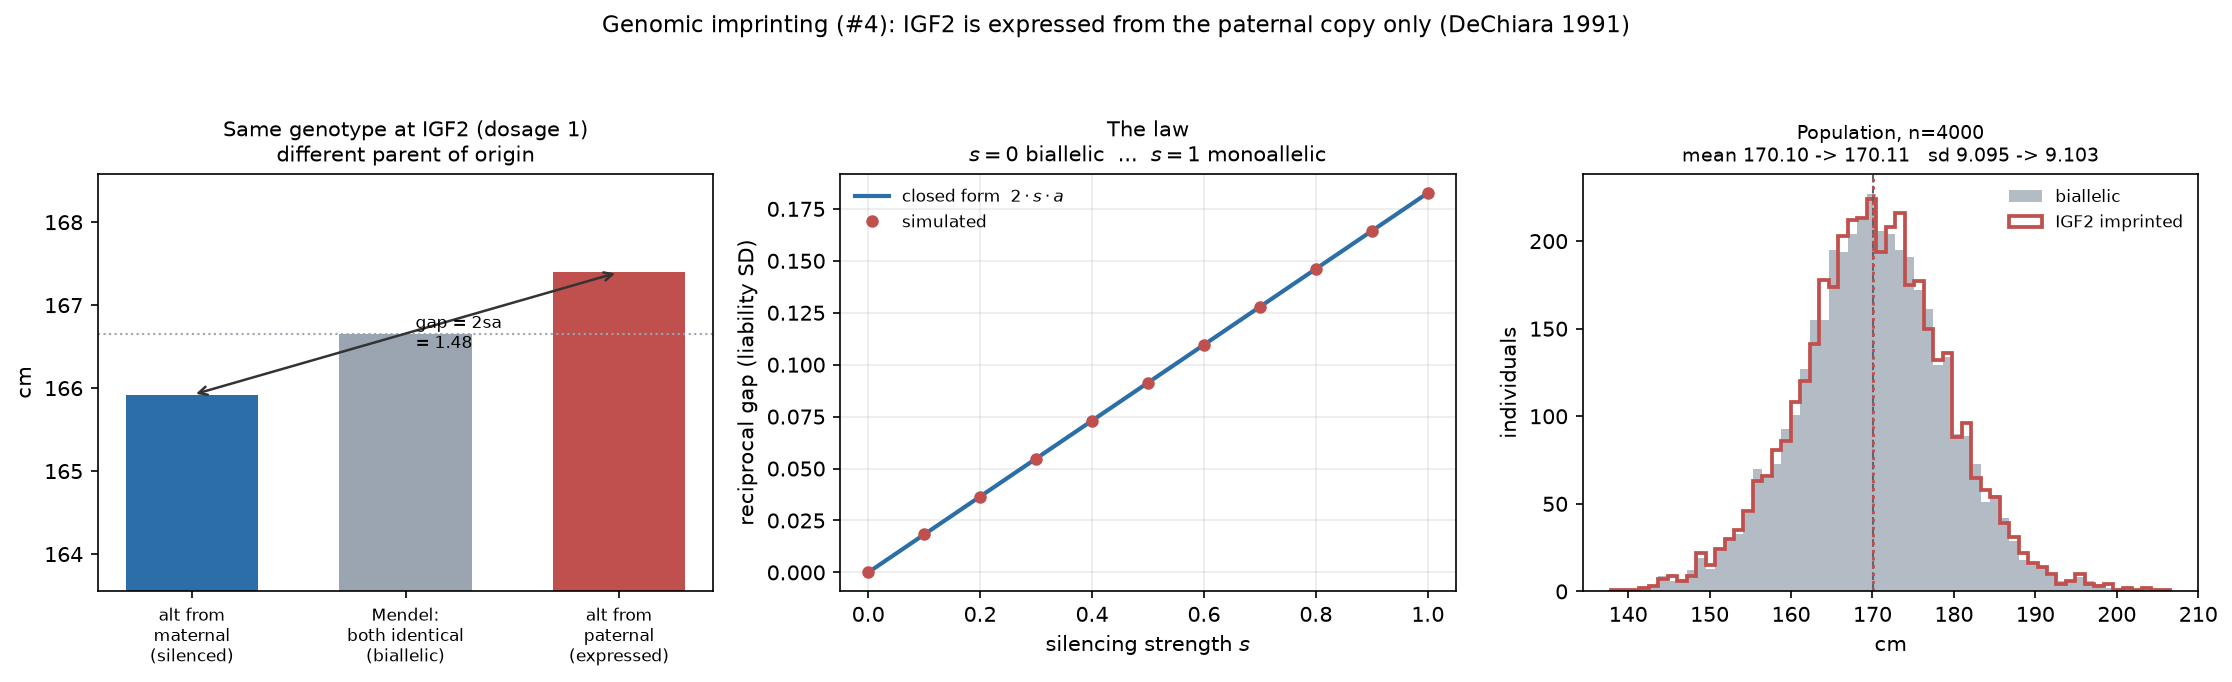
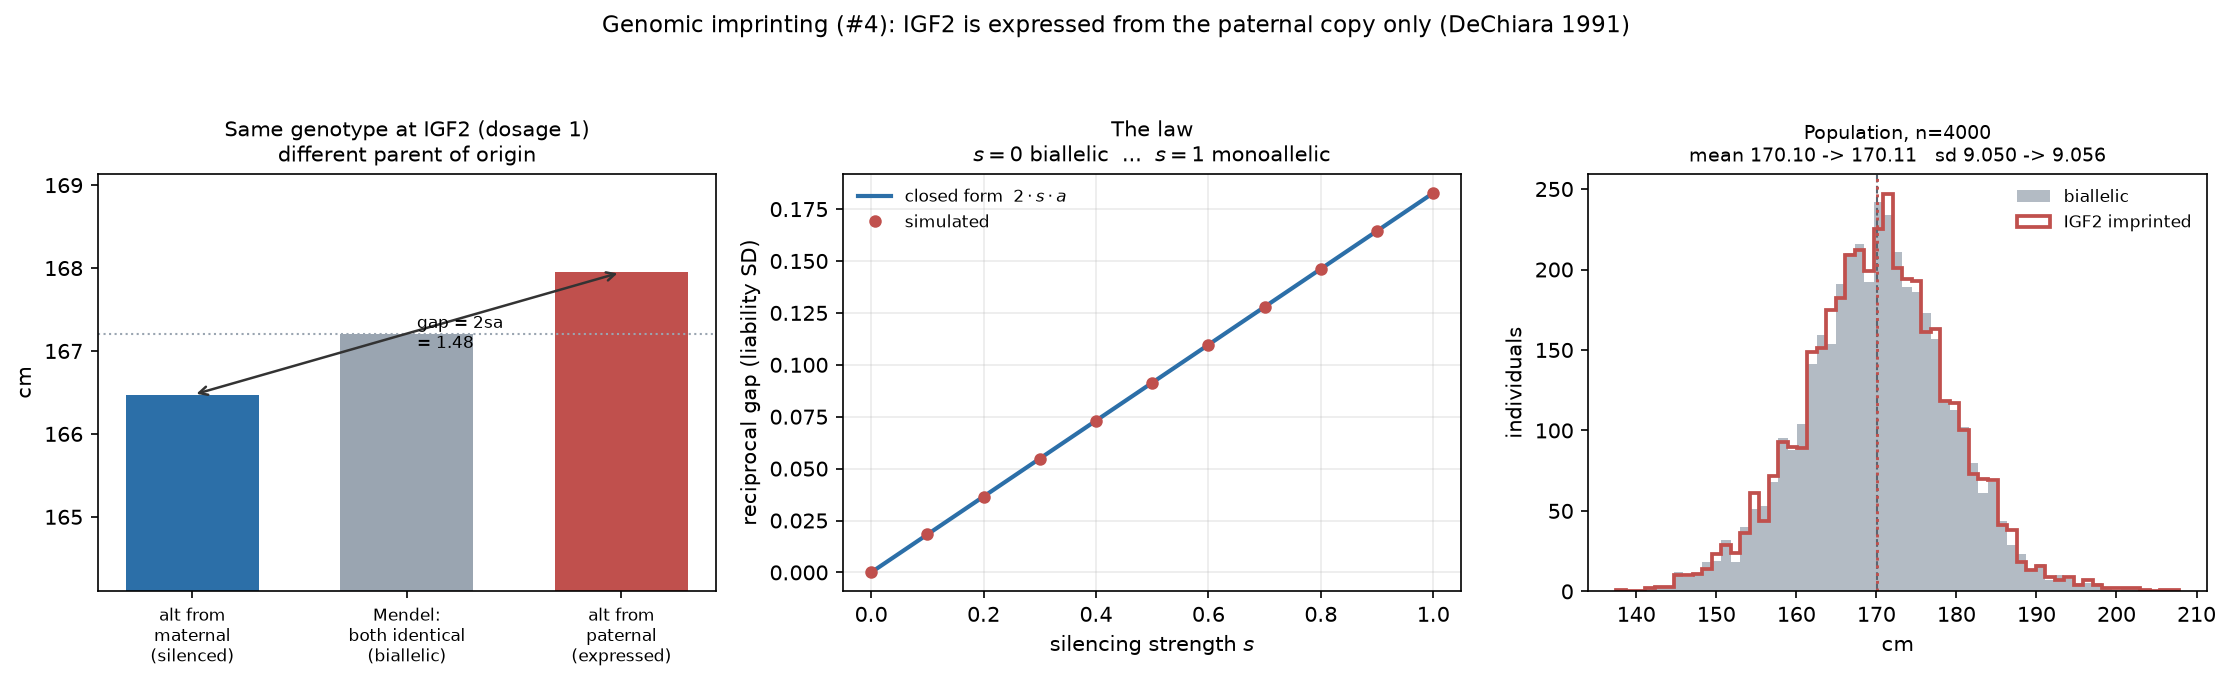
The directional-dominance figure, the docs, and the regenerated outputs
`viz.plot_directional_dominance` -> outputs/directional_dominance.png. Left
panel is the result: the same genomes scored through both architectures, the
directional arm tracking the closed form at -1.19 cm per 10% F and the
random-sign arm flat. Middle panel is the mechanism -- the per-locus 2pq*d
distribution, symmetric about zero before and displaced after, plain sum
+0.144 -> +1.333 while V_D moves the other way, 0.0500 -> 0.0143. Right panel
is the two positives and the four nulls against Joshi.

`StatureDepressionResult` gains `counterfactual_value` so the A/B can be
plotted rather than only summarised.

All 16 figures regenerated by a full non-fast `health_engine_prototype.py`
run and committed together. Eight shifted, which is expected and is the
reason for the rule: `full_report` consumes the shared generator, so adding
section [9c] moves every downstream figure. `inbreeding_depression.png` is
unchanged because it seeds itself. Harness: 19 PASS / 0 FAIL.

REPORT session-15 section; the handoff's top scientific-debt item struck
through with what remains of it. README: the limitation rewritten from "costs
viability but not stature" to what is actually true now, including that every
trait outside the six named is uncalibrated in this respect rather than
calibrated to zero, and a new row in the validation-law table.

546 tests pass.

diff --git a/health_engine/viz.py b/health_engine/viz.py
@@ -994,6 +994,135 @@ def plot_inbreeding_depression(out_path: str, n: int = 3000,
     return _save(fig, out_path)
 
 
+def plot_directional_dominance(out_path: str, trait: str = "height_cm",
+                               n: int = 1500, seed: int = 20260902) -> str:
+    """
+    Directional dominance: inbreeding depression on a PHENOTYPE.
+
+    The companion to `plot_inbreeding_depression`, which shows the fitness
+    half. Two mechanisms, two literatures, one engine -- and they are kept
+    apart, because an inbred individual can be short and still viable.
+
+    Left: the A/B. Both series are the SAME genomes, produced by real meiosis
+    over the same five pedigree structures, scored through two architectures
+    that differ only in the sign of the dominance deviations. The directional
+    arm tracks the closed form; the arm with `loci.py`'s random signs stays
+    flat. This is the whole result in one panel.
+
+    Middle: why. Each locus contributes 2*p*q*d to the depression, and the
+    histogram is that quantity across the trait's loci. Random signs put it
+    symmetrically about zero, so the PLAIN SUM cancels -- while the sum of
+    SQUARES, which is V_D, is unaffected by sign and stays exactly where it
+    was asked to be. Signing the deviations moves the distribution off zero
+    without inventing any new variance. That distinction is the entire reason
+    this engine carried dominance variance for eleven sessions with no
+    inbreeding depression on any trait.
+
+    Right: which traits, against the paper. Joshi et al. 2015 tested 16 traits
+    and reported depression in four. Reproducing the two this engine can
+    represent is the positive result; leaving BMI, adiposity, blood pressure
+    and lipids flat reproduces the negatives, which is the part that
+    distinguishes a model from a curve fit. Values are in phenotypic SD so
+    that centimetres, litres and mmHg are comparable.
+    """
+    from .inbreeding import predicted_depression
+    from .traits import ARCHITECTURE, non_directional_variant
+    from . import validation as V
+
+    r = V.stature_inbreeding_depression(trait, n_per_level=n,
+                                        rng=np.random.default_rng(seed))
+    arch = ARCHITECTURE[trait]
+    alt = non_directional_variant(trait)
+    unit = arch.spec.unit
+
+    fig, (axL, axM, axR) = plt.subplots(1, 3, figsize=(15, 4.6))
+
+    # ---- left: the A/B regression -----------------------------------
+    F = np.array(r.levels)
+    grid = np.linspace(0, 0.27, 60)
+    m0 = r.mean_value[0]
+    axL.plot(grid, m0 + r.expected_slope * grid, "--", color="#2c6fa8", lw=2,
+             label=f"closed form  $-F\\sum 2pqd$  ({r.expected_slope:+.2f} {unit}/F)")
+    axL.errorbar(F, r.mean_value, yerr=r.sem_value, fmt="o", color="#c0504d",
+                 ms=7, capsize=3,
+                 label=f"directional (n={n} per level)")
+    axL.errorbar(F, r.counterfactual_value, yerr=r.sem_value, fmt="s",
+                 color="#9aa5b1", ms=6, capsize=3,
+                 label="same genomes, random dominance signs")
+    for x, y, lab in zip(F, r.mean_value, ["outbred", "half 1st cous.",
+                                           "1st cousins", "double 1st cous.",
+                                           "full sibs"]):
+        axL.annotate(lab, xy=(x, y), xytext=(11, -16),
+                     textcoords="offset points", fontsize=7.5, color="#5a6570",
+                     ha="left")
+    axL.set_xlabel("pedigree inbreeding coefficient  F")
+    axL.set_ylabel(f"mean {trait}  ({unit})")
+    axL.set_title(f"{r.observed_per_10F:+.2f} {unit} per 10% F\n"
+                  f"(published {r.published_per_10F:+.2f}; {r.source})",
+                  fontsize=10)
+    axL.legend(fontsize=8, frameon=False, loc="lower left")
+    axL.grid(alpha=0.25)
+
+    # ---- middle: the mechanism, per locus ----------------------------
+    twopq = 2.0 * arch.p * (1.0 - arch.p)
+    before = twopq * alt.d
+    after = twopq * arch.d
+    lim = float(max(np.abs(before).max(), np.abs(after).max())) * 1.05
+    bins = np.linspace(-lim, lim, 45)
+    axM.hist(before, bins=bins, alpha=0.65, color="#9aa5b1",
+             label=f"random signs\n$\\sum$ = {before.sum():+.3f},  "
+                   f"$V_D$ = {alt.v_d:.4f}")
+    axM.hist(after, bins=bins, alpha=0.65, color="#c0504d",
+             label=f"signed toward the taller allele\n"
+                   f"$\\sum$ = {after.sum():+.3f},  $V_D$ = {arch.v_d:.4f}")
+    axM.axvline(0.0, color="#5a6570", lw=1, ls=":")
+    axM.set_xlabel(r"per-locus contribution  $2p_jq_jd_j$")
+    axM.set_ylabel("loci")
+    axM.set_title("The plain sum cancels; the sum of squares does not\n"
+                  "$V_D$ is an OUTPUT here, and lands at "
+                  f"{arch.v_d / 1.0:.1%} of $V_P$", fontsize=10)
+    axM.legend(fontsize=7.5, frameon=False)
+
+    # ---- right: positives and nulls, against the paper ---------------
+    rows = [("height_cm", 1.2), ("lung_capacity", 0.137), ("bmi", 0.0),
+            ("adiposity", 0.0), ("bp_set_point", 0.0), ("lipid_profile", 0.0)]
+    y = np.arange(len(rows))
+    model, published, colours = [], [], []
+    for name, pub in rows:
+        sd = ARCHITECTURE[name].spec.sd
+        model.append(predicted_depression(name, 0.10) / sd)
+        published.append(-pub / sd)
+        colours.append("#c0504d" if pub else "#9aa5b1")
+    axR.barh(y, model, color=colours, alpha=0.8, height=0.55)
+    axR.plot(published, y, "d", color="#2c6fa8", ms=8,
+             label="Joshi et al. 2015")
+    # Both bar colours are this engine; the distinction is whether the trait
+    # was calibrated to a depression at all, which is the point of the panel.
+    from matplotlib.patches import Patch
+    axR.legend(handles=[
+        Patch(facecolor="#c0504d", alpha=0.8, label="engine, calibrated"),
+        Patch(facecolor="#9aa5b1", alpha=0.8, label="engine, uncalibrated"),
+        plt.Line2D([], [], marker="d", ls="", color="#2c6fa8", ms=8,
+                   label="Joshi et al. 2015"),
+    ], fontsize=8, frameon=False, loc="lower left")
+    axR.axvline(0.0, color="#5a6570", lw=1)
+    axR.set_yticks(y)
+    axR.set_yticklabels([n for n, _ in rows], fontsize=8)
+    axR.invert_yaxis()
+    axR.set_xlabel("depression per 10% F  (phenotypic SD)")
+    axR.xaxis.set_major_locator(plt.MaxNLocator(nbins=5))
+    axR.set_title("Two positives reproduced -- and so are\nthe four nulls, "
+                  "which is the harder half", fontsize=10)
+    axR.grid(alpha=0.25, axis="x")
+
+    fig.suptitle("Directional dominance -- "
+                 r"$M_F - M_0 = -F\sum_j 2p_jq_jd_j$  "
+                 "(Falconer & Mackay 1996; Joshi et al. 2015, Nature 523:459)",
+                 fontsize=11)
+    fig.tight_layout(rect=(0, 0, 1, 0.93))
+    return _save(fig, out_path)
+
+
 def plot_cnv_dosage(out_path: str, region: str = "15q11-q13",
                     n: int = 2500, seed: int = 20261001) -> str:
     """

diff --git a/health_engine/validation.py b/health_engine/validation.py
@@ -1463,6 +1463,7 @@ class StatureDepressionResult:
     expected_slope: float            # closed form: -sd * sum 2pq d
     stderr: float
     counterfactual_slope: float      # identical genomes, non-directional arch
+    counterfactual_value: List[float]   # its per-level means, for plotting
     counterfactual_expected: float   # its own closed form: the leftover walk
     paired_slope: float              # slope of (directional - counterfactual)
     paired_stderr: float
@@ -1646,6 +1647,7 @@ def stature_inbreeding_depression(trait: str = "height_cm",
         observed_slope=float(slope), realised_slope=float(r_slope),
         expected_slope=expected, stderr=slope_se(sems),
         counterfactual_slope=float(alt_slope),
+        counterfactual_value=alt_means,
         counterfactual_expected=alt_expected,
         paired_slope=float(paired_slope), paired_stderr=slope_se(diff_sems),
         published_per_10F=-spec.depression_per_10F,

diff --git a/health_engine_prototype.py b/health_engine_prototype.py
@@ -425,6 +425,9 @@ def main() -> None:
         viz.plot_inbreeding_depression(
             os.path.join(out, "inbreeding_depression.png"),
             n=800 if FAST else 3000),
+        viz.plot_directional_dominance(
+            os.path.join(out, "directional_dominance.png"),
+            n=500 if FAST else 1500),
         viz.plot_cnv_dosage(os.path.join(out, "cnv_dosage.png"),
                             n=800 if FAST else 2500),
         viz.plot_development(os.path.join(out, "development.png")),

diff --git a/README.md b/README.md
@@ -138,6 +138,7 @@ these laws; they are measured from emergent output and compared to theory.
 | Cryptic-variation release | Var(z) = k²·V_gen + V_env past the buffering threshold | Waddington 1942 |
 | Wright's F_ST | between-deme differentiation vs migration | Wright 1931; Weir & Cockerham 1984 |
 | Lethal equivalents | ln S(F) = ln S₀ − B·F, B recovered by regression | Morton, Crow & Muller 1956 |
+| Directional dominance | M_F − M₀ = −F·Σⱼ2pⱼqⱼdⱼ; −1.2 cm of stature per 10% F | Falconer & Mackay 1996; Joshi et al. 2015 |
 | Malécot kinship | pedigree coefficients to machine precision | Malécot 1948; Wright 1922 |
 | CNV dosage response | shift = (copies/2 − 1)·Σⱼ E[valⱼ]; deletion/duplication mirror | Jacquemont et al. 2011 |
 | Developmental identity | age schedule is *exactly* 1.0 at the calibration age | — |
@@ -225,14 +226,20 @@ Kept deliberately visible, per the project's scientific-honesty standard.
   cannot evolve: buffering capacity is a per-trait constant, not a heritable
   modifier, which is precisely what Waddington's selection experiments were
   about.
-- **Inbreeding costs viability but not stature.** The fitness half of #31 is
-  modelled (1.4 lethal equivalents per gamete, recovered by regression), but
-  real inbreeding also *shortens* people — Joshi et al. 2015 measured ~1.2 cm
-  of height and ~137 ml of FEV1 lost per 10% increase in F. That requires
-  **directional** dominance, and `loci.py` draws dominance ratios N(0, 0.15),
-  random in sign, so the catalogue's expected trait depression is ~0.
-  `inbreeding.directional_dominance()` measures and reports the gap. Fixing it
-  means re-signing every dominance ratio and re-solving every additive scale.
+- **Directional dominance covers two traits, not all of them.** Inbreeding now
+  costs both viability (1.4 lethal equivalents per gamete) *and* stature:
+  `height_cm` and `lung_capacity` are calibrated to Joshi et al. 2015 (−1.2 cm
+  and −137 ml per 10% F) with `V_D` as an output of the calibration rather than
+  an input. Four traits Joshi tested and found nothing in — BMI, adiposity,
+  blood pressure, lipids — are deliberately left flat, so the model reproduces
+  the paper's nulls as well as its positives. But every *other* trait is
+  **uncalibrated in this respect, not calibrated to zero**: what
+  `inbreeding.directional_dominance()` returns for them is the small residual
+  of `loci.py`'s random-sign dominance ratios. `lung_capacity` carries a second
+  caveat — Joshi measured FEV1, a timed volume, while this trait is a generic
+  spirometric capacity, and reproducing the slope costs `V_D = 0.11` because
+  only 82 loci carry it. Sign and mechanism are real; the magnitude is
+  indicative.
 - **The load spectrum does not evolve.** A world that inbreeds heavily for
   many generations should *purge* some of its recessive load (Crnokrak &
   Barrett 2002). Transmitted genotypes drift, but `SPECTRUM.q` — and hence the
@@ -275,10 +282,10 @@ inbreeding depression (`inbreeding.py`), #12 structural variants
 (`cnv.py`) and #13 developmental trajectory (`development.py`).
 
 What remains is not roadmap work. It is the scientific debt listed under
-[Known limitations](#known-limitations) — chiefly the absence of directional
-dominance, which is why inbreeding here costs viability but not stature — and
-the one genuinely open question: **`PhysiologicalState` has never driven a
-live LLM.** `to_prompt()` and `action_distribution()` are validated by KL
+[Known limitations](#known-limitations) — session 15 closed the largest item,
+directional dominance, so inbreeding now shortens people as well as killing
+them — and the one genuinely open question: **`PhysiologicalState` has never
+driven a live LLM.** `to_prompt()` and `action_distribution()` are validated by KL
 divergence between states, but nothing consumes them. That is the gap between
 "a genetics simulator" and "a genetics simulator that demonstrably changes how
 an agent behaves."
